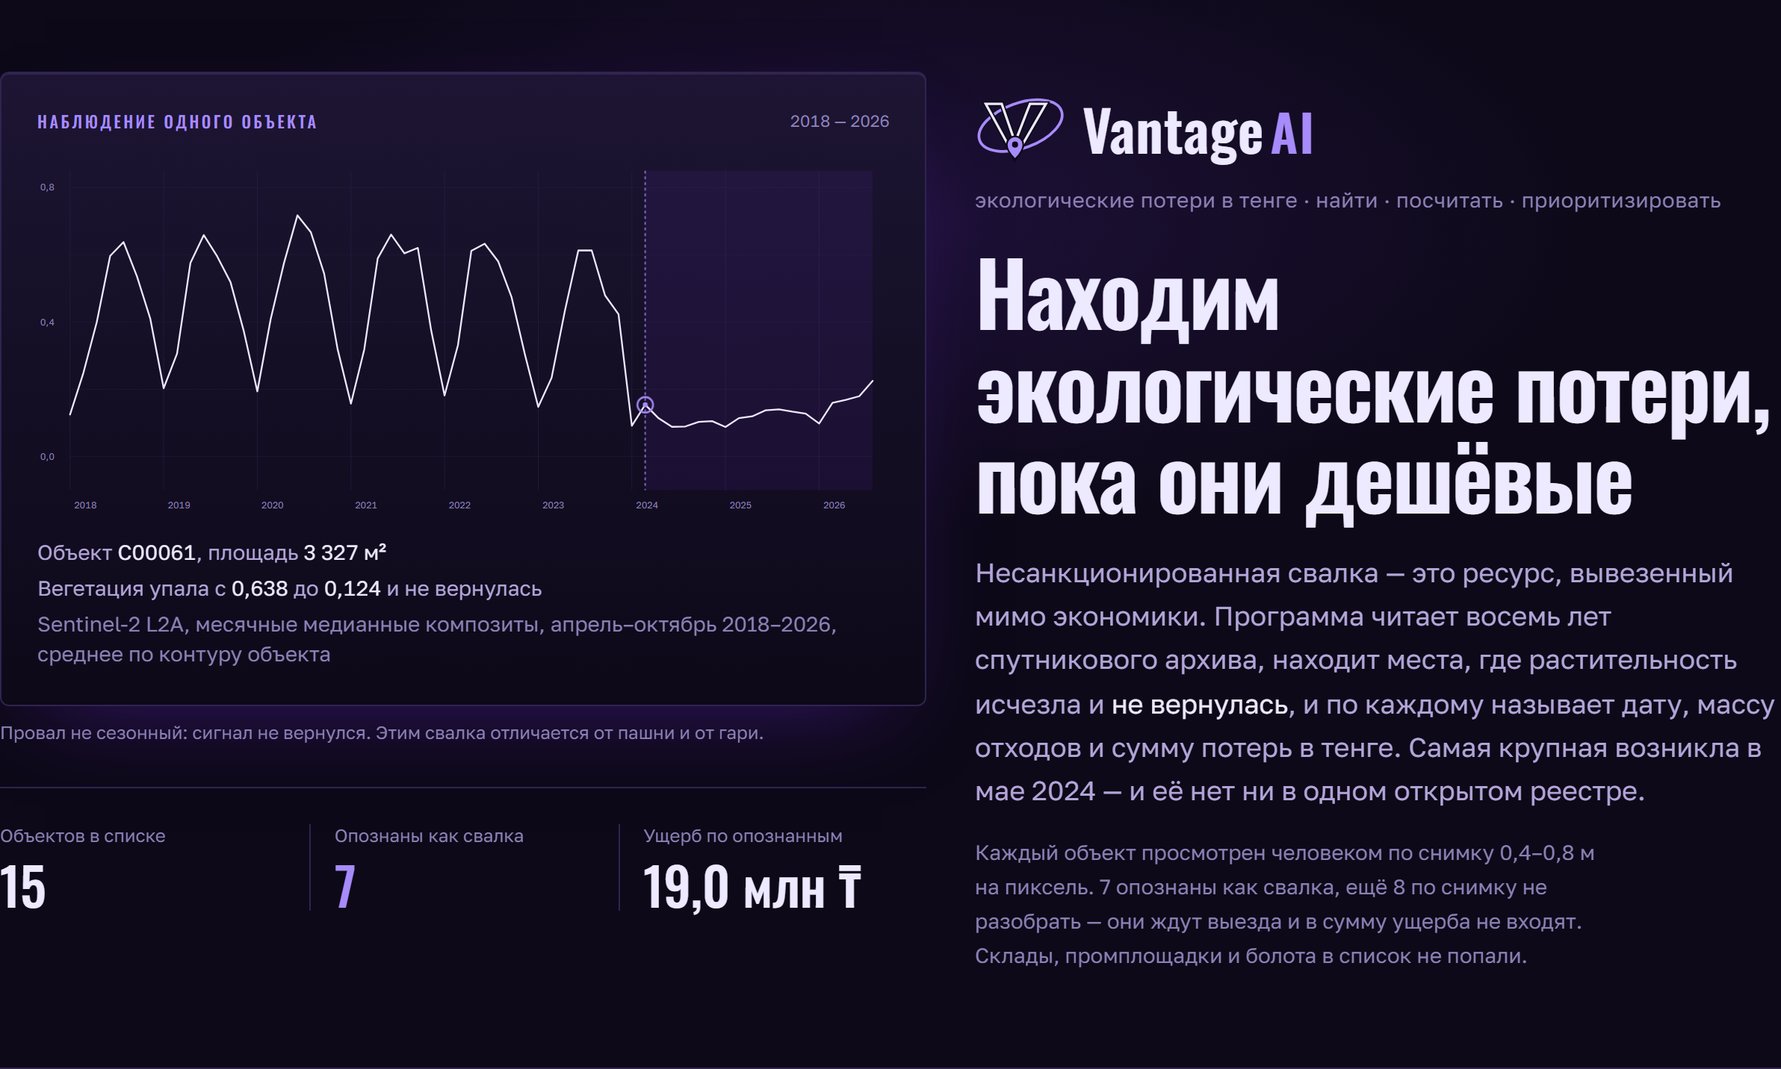
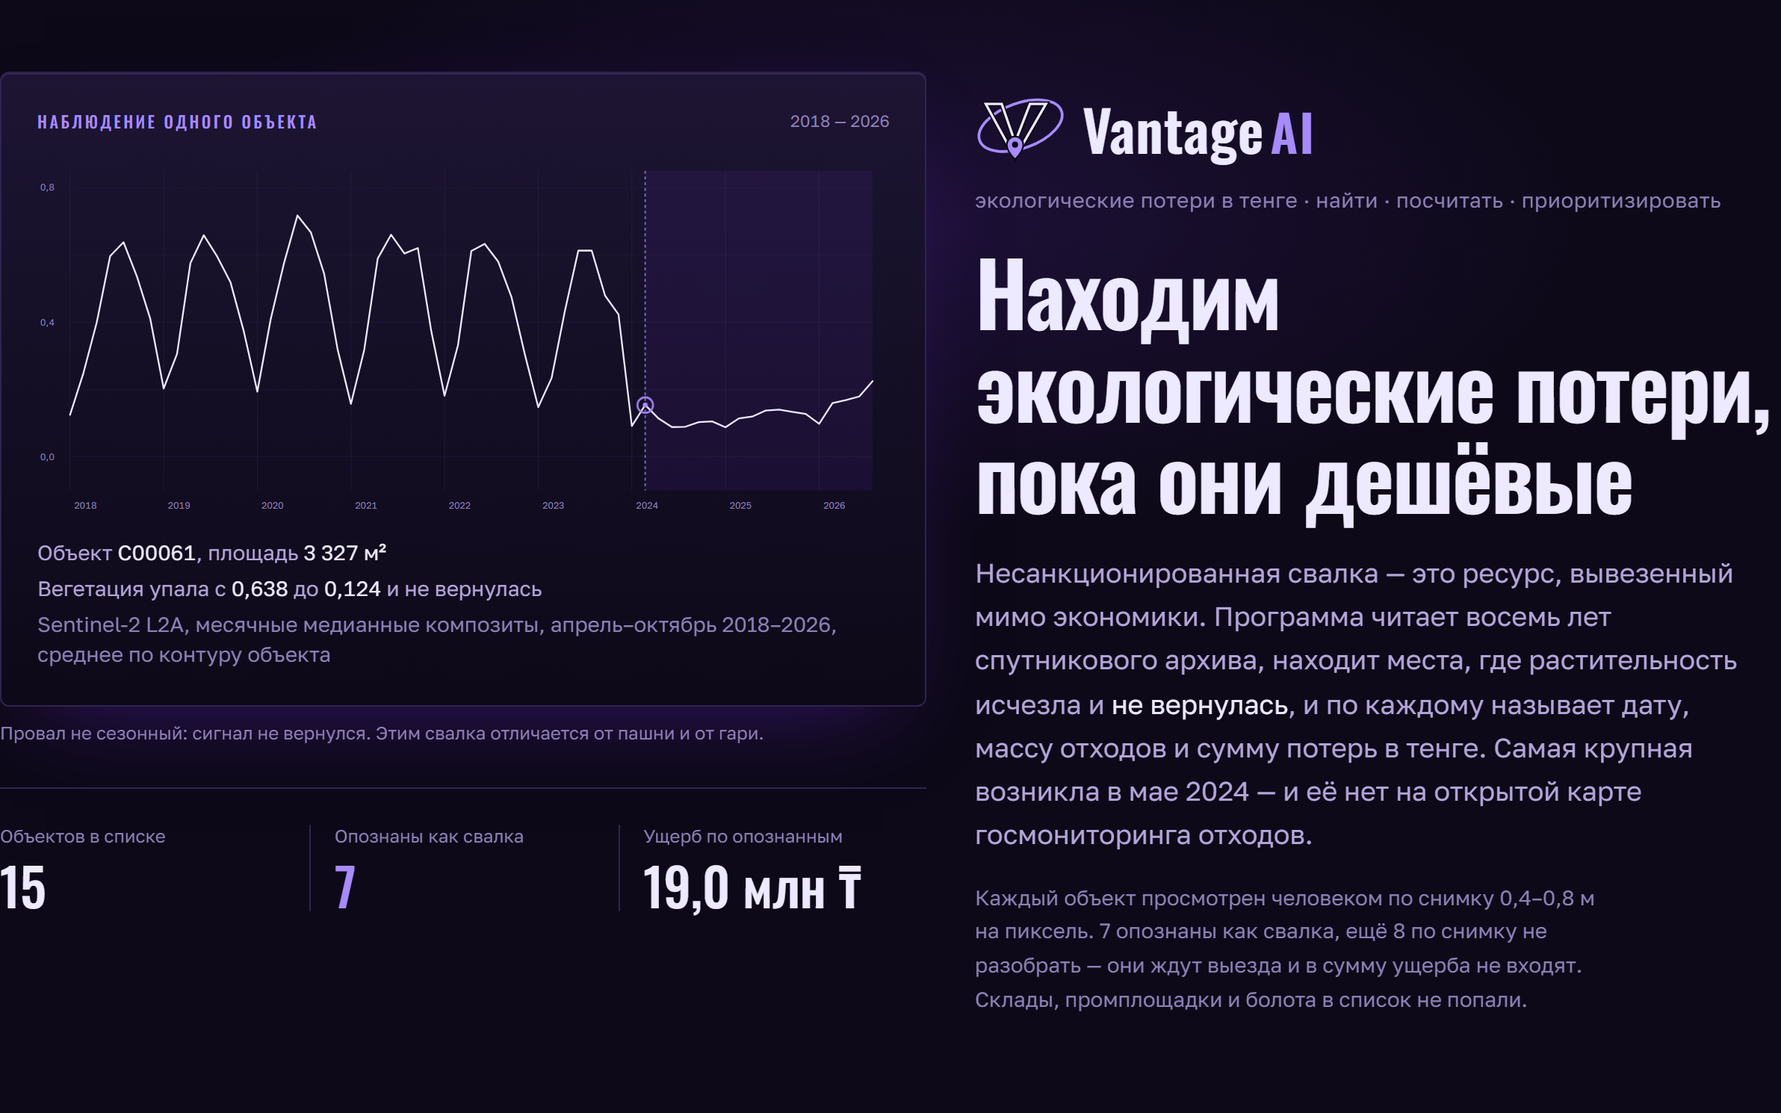
Убраны утверждения, которые опровергает открытая карта госмониторинга

diff --git a/web-next/src/App.tsx b/web-next/src/App.tsx
@@ -136,8 +136,8 @@ const LIMITS: [string, string][] = [
     'Объекты меньше 30–50 м² Sentinel-2 не разрешает. Эту дыру закрывает житель с телефоном, а не алгоритм.',
   ],
   [
-    'В сельской местности метод не работает',
-    'В промзоне необратимое исчезновение растительности — событие редкое и потому значимое; в поле — рядовое: залежь, смена оборота, заброшенный огород. Проверено на четырёх сельских областях: настоящих свалок ноль.',
+    'Находит не каждую свалку',
+    'Метод видит место, где растительность исчезла навсегда. На открытой карте госмониторинга в наших пяти поясах 183 свалки — поиск по архиву находит из них 18, а в четырёх поясах среди его находок не оказалось ни одной свалки, хотя свалки там есть. В поле он к тому же даёт ложные находки: залежь и смена оборота выглядят так же. Второй способ — сканирование снимка высокого разрешения — в работе.',
   ],
   [
     'Перенос классификатора измерен, но выборка мала',
@@ -820,7 +820,7 @@ export default function App() {
                 пересчитывается тем же способом, что в scripts/finish_all.py. */}
             {[
               ['1 709 км²', 'посчитано вокруг Астаны за два дня',
-               'свалки нашлись в одной области из пяти'],
+               'наш метод нашёл свалки в одной области из пяти'],
               ['8 120 км²', 'пригороды 20 областных центров', 'около сорока часов'],
               ['12 минут', 'просмотреть агломерацию и выбрать, где считать', 'до прогона, без снимков'],
             ].map(([big, what, cost]) => (
@@ -837,8 +837,10 @@ export default function App() {
           <p className="mt-8 max-w-[60ch] text-sm leading-relaxed text-muted-2">
             Последнее число важнее первых двух. Метод работает не везде, и
             где он не сработает, мы говорим <strong className="font-normal text-line">до</strong> прогона —
-            за двенадцать минут и без единого снимка. Четыре области из пяти
-            дали ноль настоящих свалок, и это написано здесь, а не спрятано.
+            за двенадцать минут и без единого снимка. В четырёх областях из
+            пяти среди наших находок не оказалось ни одной свалки — хотя на
+            карте госмониторинга свалки есть и там, — и это написано здесь, а
+            не спрятано.
           </p>
         </section>
 

diff --git a/web-next/src/components/CitySwitch.tsx b/web-next/src/components/CitySwitch.tsx
@@ -65,7 +65,7 @@ export function CitySwitch({ cities, current, onSelect, className = '' }: Props)
           state === 'found'
             ? `${city.name}: найдено ${city.count}`
             : state === 'empty'
-              ? `${city.name}: проверено ${city.reviewed} находок, настоящих свалок нет`
+              ? `${city.name}: проверено ${city.reviewed} находок, свалок среди них нет`
               : `${city.name}: прогон ещё не проходил`;
         return (
           <button

diff --git a/scripts/key_numbers.py b/scripts/key_numbers.py
@@ -96,6 +96,11 @@ def main() -> int:
     # разметки оно разошлось с данными.
     screen_path = DATA / "screen.json"
     screen = json.loads(screen_path.read_text(encoding="utf-8")) if screen_path.exists() else {}
+    # Сверка с госмониторингом — из scripts/gov_waste.py (data/eval/gov_waste.json).
+    gov_path = Path("data/eval/gov_waste.json")
+    gov = json.loads(gov_path.read_text(encoding="utf-8")) if gov_path.exists() else {}
+    gov_total, gov_found = gov.get("total", 0), gov.get("found", 0)
+    gov_elsewhere = sum(1 for r in gov.get("rows", []) if r.get("area") != "outputs_real")
     # Точность модели по снимку — из scripts/attach_chipmodel.py.
     image_path = DATA / "image_model.json"
     image = json.loads(image_path.read_text(encoding="utf-8")) if image_path.exists() else {}
@@ -339,8 +344,11 @@ def main() -> int:
             "  «фотофиксация». Разница небольшая, но проверяющий, который",
             "  заметит её сам, отнесётся ко всему остальному иначе.",
         ] if ground and not photos else []),
-        "- **Четыре области из пяти дали ноль настоящих свалок.** Это не",
-        "  провал, а измеренная граница применимости — [BELTS.md](BELTS.md).",
+        "- **В четырёх областях из пяти среди находок метода нет ни одной свалки.**",
+        f"  Свалки там есть: на открытой карте госмониторинга их {gov_elsewhere}.",
+        f"  Метод находит {gov_found} из {gov_total} свалок госмониторинга —",
+        "  видит исчезновение растительности, а не каждую свалку. Не говорить",
+        "  «там свалок нет» (AI_RESULTS.md, 1ф; [BELTS.md](BELTS.md)).",
         "- **Три попытки обучить свою модель, все три неудачные.** Числа в",
         "  [AI_RESULTS.md](AI_RESULTS.md), разделы 1в, 1г, 1з.",
         "- **Прямого тарифа вывоза по Астане нет.** Именно он двигает оценку",

diff --git a/scripts/make_speech_pdf.py b/scripts/make_speech_pdf.py
@@ -38,7 +38,7 @@ RULE = (0.867, 0.835, 0.784)
 
 SKELETON = [
     "За свалку платят трижды, и ни один счёт никто не считает.",
-    "Свалок нет в реестре, потому что их никто не видел.",
+    "Шести из семи наших свалок нет даже на карте госмониторинга.",
     "Вот что известно публично — а вот что есть на самом деле.",
     "Различает их не картинка, а физика. Пять признаков.",
     "Дальше деньги: не одна цифра, а диапазон.",
@@ -63,7 +63,8 @@ BLOCKS = [
         [
             "Стихийная свалка — это счёт, который приходит трижды: вывозом, "
             "потерянным вторсырьём и метаном в воздухе.",
-            "Вокруг Астаны такие объекты есть, и их нет ни в одном реестре. "
+            "Вокруг Астаны такие объекты есть: из семи наших свалок на открытой "
+            "карте госмониторинга только одна. "
             "Их не считают, потому что не видят: обойти степь пешком "
             "невозможно, а находят по жалобе — когда убирать уже дорого.",
         ],

diff --git a/scripts/build_deck.py b/scripts/build_deck.py
@@ -347,7 +347,7 @@ def slides(n: dict) -> str:
           <ul>
             <li><b>Первый счёт — вывоз.</b> {ru(n['mass_sum'])} тонн на {n['dumps']}
               опознанных свалках одного квадрата 20 × 20 км — это <b>{ru(n['removal'], 1)} млн ₸</b> бюджету, и в план
-              уборки они не заложены: объектов нет в реестрах.</li>
+              уборки они не заложены: шести из семи нет даже на открытой карте госмониторинга.</li>
             <li><b>Второй счёт — потерянный ресурс.</b> Внутри тех же тонн лежит
               пластика, бумаги, металла и стекла на <b>{ru(n['recyclable'], 1)} млн ₸</b>
               по прайсу приёмки. Вывоз на полигон списывает их в ноль.</li>

diff --git a/docs/PITCH.md b/docs/PITCH.md
@@ -54,8 +54,8 @@
 > подозрительных объектов. Семь из них по снимку высокого разрешения —
 > несомненные свалки: две с половиной тысячи тонн, девятнадцать миллионов
 > тенге потерь. Ещё восемь по снимку не разобрать — туда нужен выезд. И
-> ни одного из этих объектов нет в официальном реестре. Их не считают,
-> потому что их не видят.
+> из семи свалок на открытой карте госмониторинга есть только одна. Шесть
+> не считают, потому что их не видят.
 
 **На экране:** титульный слайд. Три числа: 2 500 т · 19,0 млн ₸ · 51%.
 
@@ -260,8 +260,11 @@ python scripts/check_live.py
 > оборота, заброшенный огород.
 >
 > Мы посчитали пять поясов вокруг Астаны — тысяча семьсот квадратных
-> километров. Настоящие свалки нашлись в одном. В четырёх — ноль, и все
-> находки просмотрены глазами.
+> километров — и сверились с картой госмониторинга. Из ста восьмидесяти
+> трёх свалок на ней наш поиск находит восемнадцать. Он видит место, где
+> исчезла растительность, и пропускает свалку на голом грунте. Мы это
+> измерили и не прячем: второй способ поиска, по снимку высокого
+> разрешения, в опыте находит в три-четыре раза больше.
 >
 > Проверять область научились до прогона: один запрос к открытой карте,
 > ни одного снимка, секунды.

diff --git a/docs/NUMBERS.md b/docs/NUMBERS.md
@@ -92,8 +92,11 @@
 - **Ни одного объекта, подтверждённого выездом.** Все проверки —
   по снимкам 0,4–0,8 м. Куда ехать, посчитано в [FIELD.md](FIELD.md);
   выезд засчитывается только с фотографией, где есть координаты.
-- **Четыре области из пяти дали ноль настоящих свалок.** Это не
-  провал, а измеренная граница применимости — [BELTS.md](BELTS.md).
+- **В четырёх областях из пяти среди находок метода нет ни одной свалки.**
+  Свалки там есть: на открытой карте госмониторинга их 131.
+  Метод находит 18 из 183 свалок госмониторинга —
+  видит исчезновение растительности, а не каждую свалку. Не говорить
+  «там свалок нет» (AI_RESULTS.md, 1ф; [BELTS.md](BELTS.md)).
 - **Три попытки обучить свою модель, все три неудачные.** Числа в
   [AI_RESULTS.md](AI_RESULTS.md), разделы 1в, 1г, 1з.
 - **Прямого тарифа вывоза по Астане нет.** Именно он двигает оценку

diff --git a/docs/BELTS.md b/docs/BELTS.md
@@ -3,6 +3,15 @@
 Разбор написан по просмотру всех объектов восточного пояса глазами в ночь
 на 23 августа. Результат отрицательный и меняет стратегию поиска.
 
+> **Поправка 27 сентября.** «Ноль настоящих» — это про находки метода, а не
+> про пояса. Сверка с открытой картой госмониторинга отходов (KazEOSat-1,
+> апрель 2026) показала: свалки в этих поясах есть — 131 на четыре пояса,
+> 73 из них в западной промзоне. Наш поиск находит 18 из 183 свалок
+> госмониторинга: он видит место, где исчезла растительность, и
+> пропускает свалку на уже голом грунте (AI_RESULTS.md, 1ф и 1х). Вывод
+> ниже о полезности сёл как ориентира остаётся в силе; вывод «здесь свалок
+> нет» — нет.
+
 ---
 
 ## Что проверяли

diff --git a/docs/PILOT.md b/docs/PILOT.md
@@ -68,8 +68,10 @@
 **Результат:** ответ «здесь метод сработает» или «здесь не сработает», с
 числом. Это единственная неделя, после которой пилот может честно
 закончиться, и мы говорим об этом заранее. Из пяти посчитанных поясов
-вокруг Астаны свалки нашлись в одном; в сельской местности метод даёт
-ложные находки, и предупредить об этом дешевле, чем объясняться потом.
+вокруг Астаны наш метод нашёл свалки в одном, хотя на карте госмониторинга
+они есть во всех пяти: он видит не каждую свалку (AI_RESULTS.md, 1ф). В
+сельской местности он к тому же даёт ложные находки, и предупредить об
+этом дешевле, чем объясняться потом.
 
 ### Недели 3–4. Первый полный прогон
 
